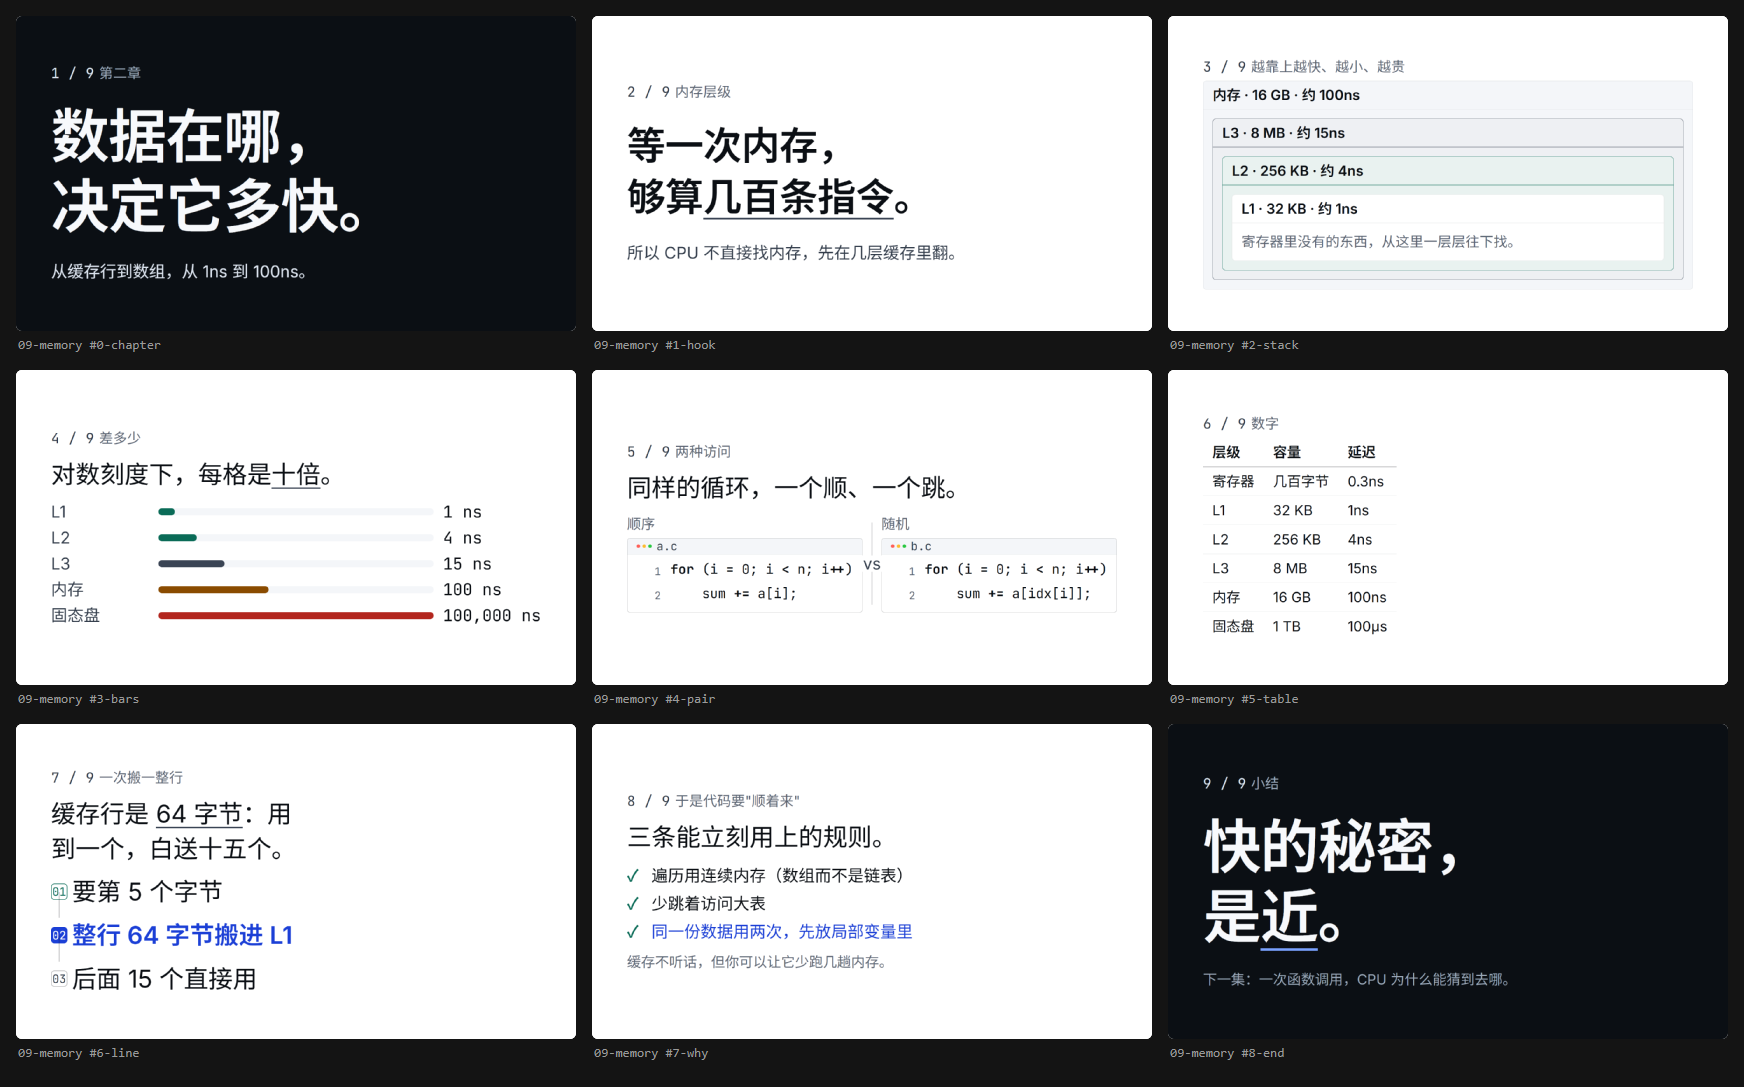
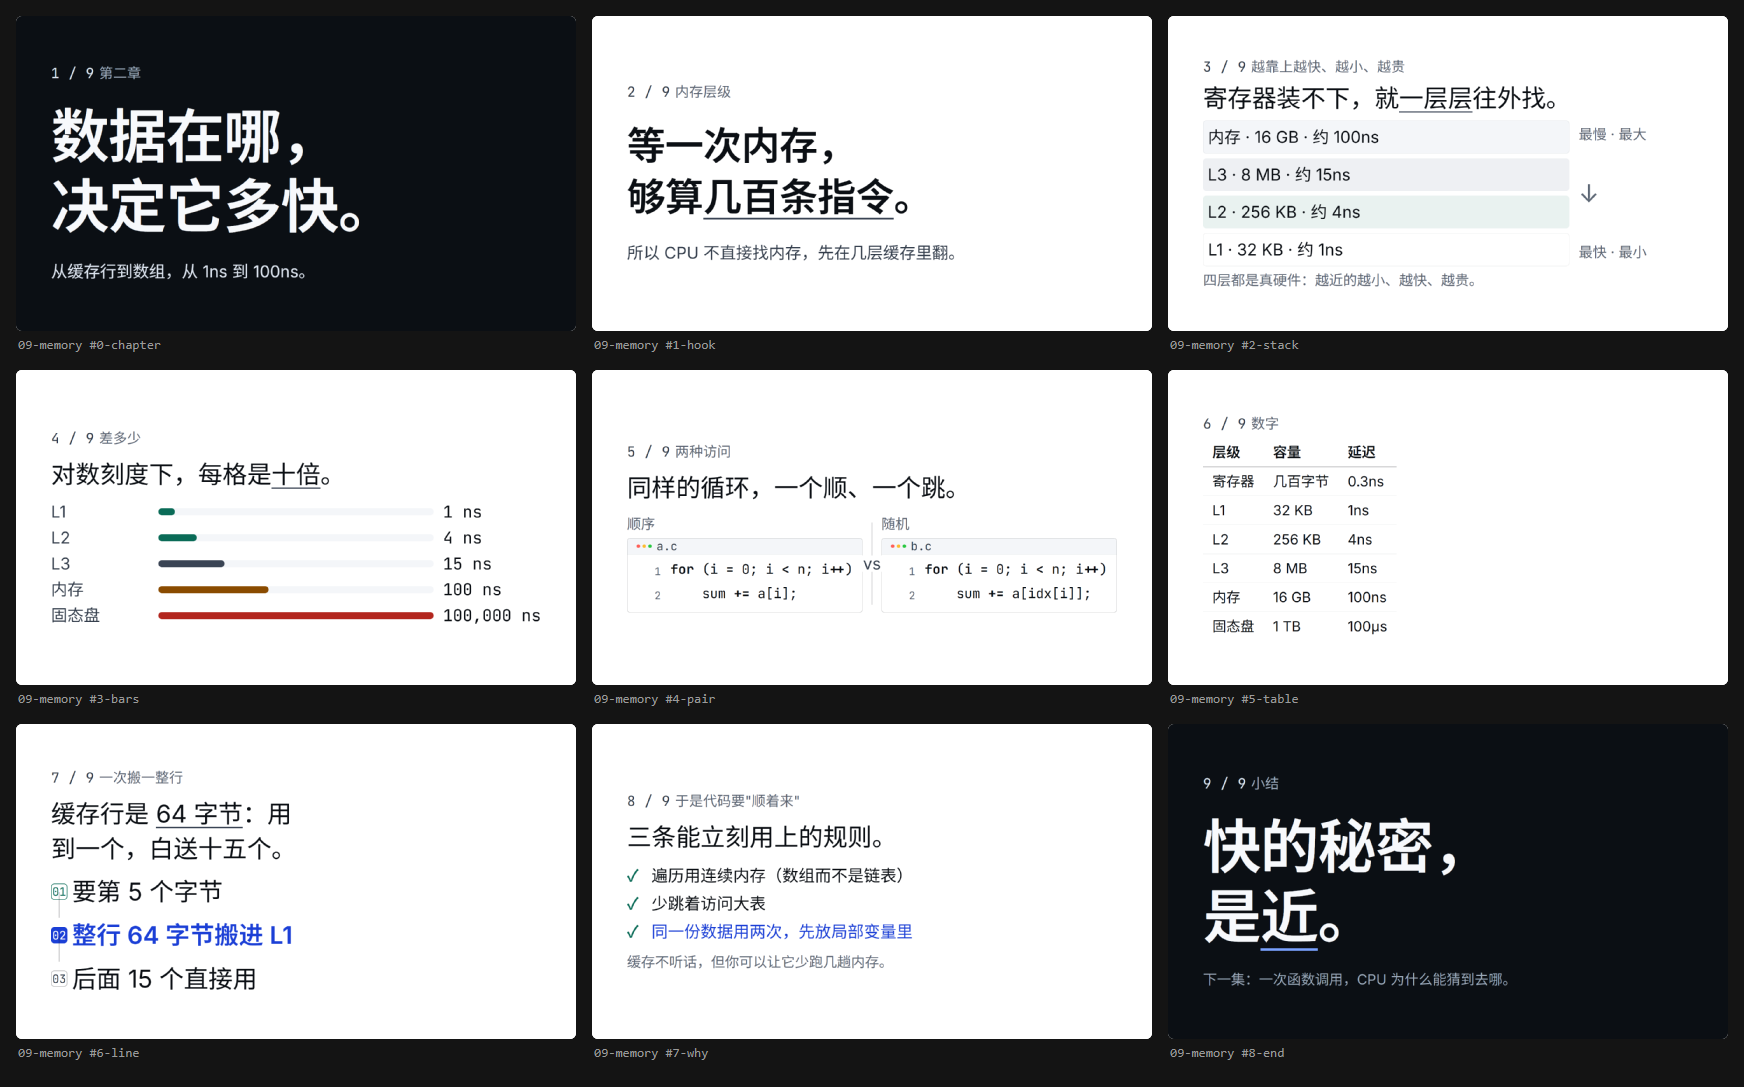
第九集的内存层级从"俄罗斯套娃"改成四条带地址轴的阶梯：套娃会让人以为 L1 装在 L2 里；顺带让 vk sheet 等字体和图落地再截图

Changed region(s): [[0.6812, 0.0607, 0.8979, 0.2732], [0.8979, 0.2125, 0.9599, 0.2429], [0.8979, 0.1214, 0.9599, 0.1518]]

diff --git a/episodes/09-memory.html b/episodes/09-memory.html
@@ -17,19 +17,21 @@
 <vk-page id="2-stack">
   <vk-stack gap="close">
     <vk-label counter="3 / 9">越靠上越快、越小、越贵</vk-label>
-    <vk-box surface="soft" pad="normal" title="内存 · 16 GB · 约 100ns">
-      <vk-box surface="tint" tone="info" pad="normal" title="L3 · 8 MB · 约 15ns">
-        <vk-box surface="tint" tone="ok" pad="normal" title="L2 · 256 KB · 约 4ns">
-          <vk-box surface="paper" border="hair" pad="normal" title="L1 · 32 KB · 约 1ns">
-            <vk-text size="caption" ink="muted">寄存器里没有的东西，从这里一层层往下找。</vk-text>
-          </vk-box>
-        </vk-box>
-      </vk-box>
-    </vk-box>
+    <vk-text size="subhead">寄存器装不下，就<em>一层层</em>往外找。</vk-text>
+    <vk-grid cols="12" gap="close">
+      <vk-box span="9" surface="soft" pad="close"><vk-text size="body">内存 · 16 GB · 约 100ns</vk-text></vk-box>
+      <vk-stack span="3" row-span="4" justify="between" pad="close">
+        <vk-text size="caption" ink="muted">最慢 · 最大</vk-text>
+        <vk-text size="subhead" ink="muted">↓</vk-text>
+        <vk-text size="caption" ink="muted">最快 · 最小</vk-text>
+      </vk-stack>
+      <vk-box span="9" surface="tint" tone="info" pad="close"><vk-text size="body">L3 · 8 MB · 约 15ns</vk-text></vk-box>
+      <vk-box span="9" surface="tint" tone="ok" pad="close"><vk-text size="body">L2 · 256 KB · 约 4ns</vk-text></vk-box>
+      <vk-box span="9" surface="paper" border="hair" pad="close"><vk-text size="body">L1 · 32 KB · 约 1ns</vk-text></vk-box>
+    </vk-grid>
+    <vk-text size="caption" ink="muted">四层都是真硬件：越近的越小、越快、越贵。</vk-text>
   </vk-stack>
-</vk-page>
-
-<vk-page id="3-bars">
+</vk-page><vk-page id="3-bars">
   <vk-stack gap="normal">
     <vk-label counter="4 / 9">差多少</vk-label>
     <vk-text size="subhead">对数刻度下，每格是<em>十倍</em>。</vk-text>
